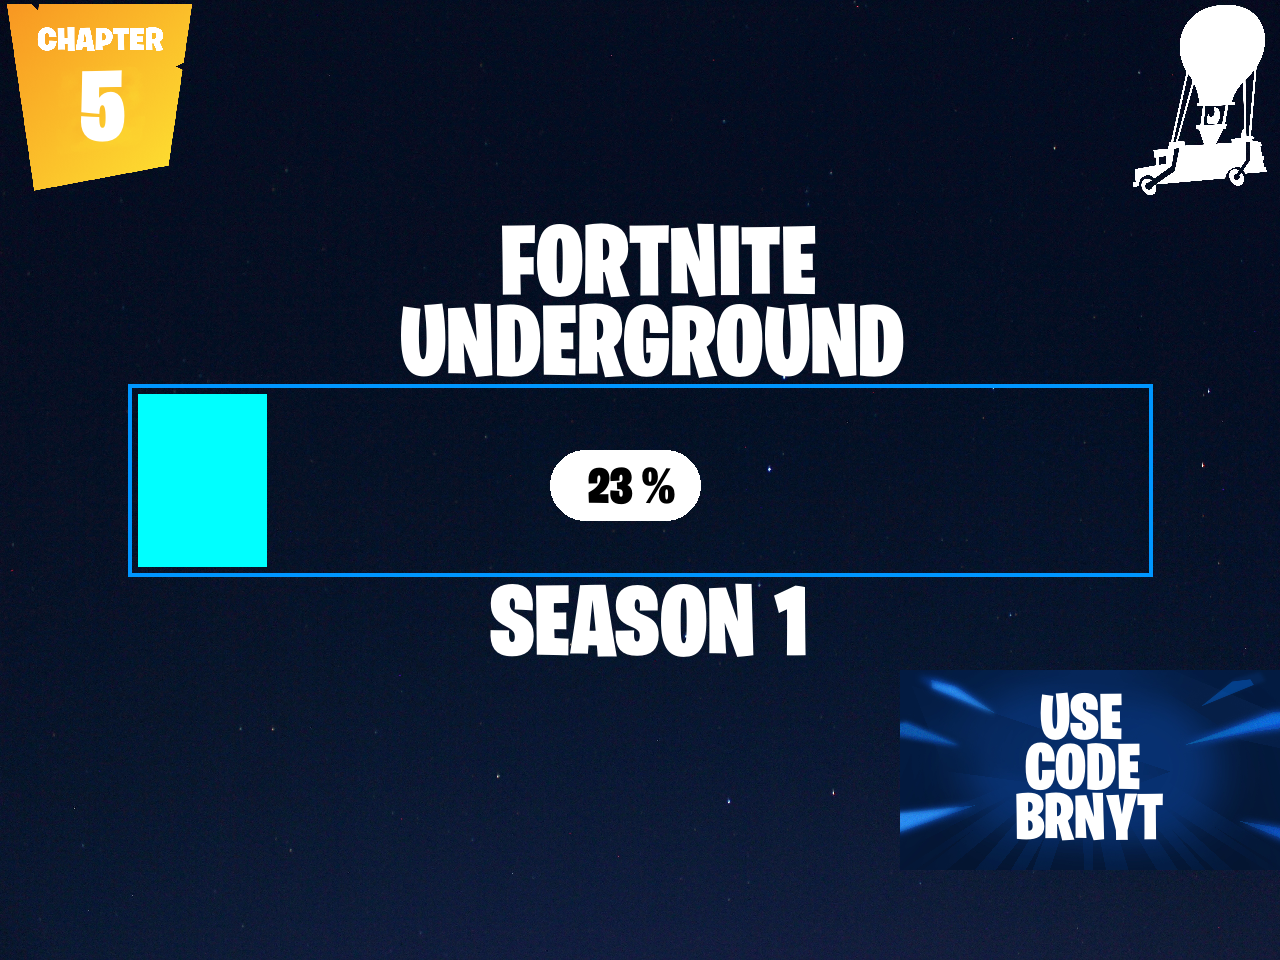
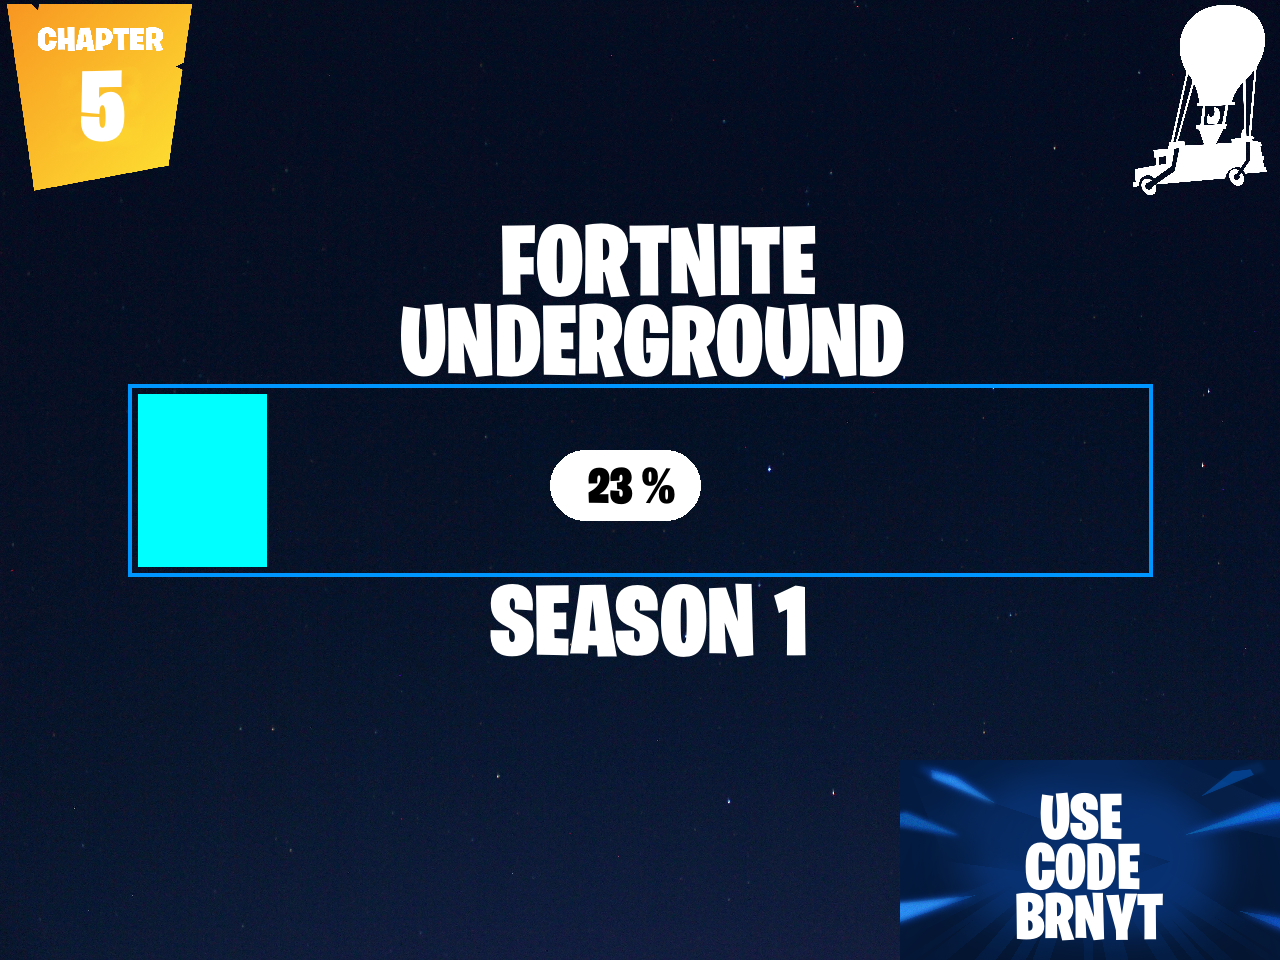
Fixed the fial image a little

Changed region(s): [[0.6875, 0.6875, 1.0, 1.0]]

diff --git a/Loading_Image/loading_bar_in_depth.py b/Loading_Image/loading_bar_in_depth.py
@@ -94,11 +94,11 @@ def create_loading_bar_image(progress):
     cc_back_path = os.path.join("Loading_Image", "FNCS_BG.JPG")
     cc_back_logo = Image.open(cc_back_path).convert('RGBA')
     cc_back_logo = cc_back_logo.resize((400, 200), Image.NEAREST)
-    resized_image.paste(cc_back_logo, [900, 670], cc_back_logo)
+    resized_image.paste(cc_back_logo, [900, 760], cc_back_logo)
 
-    support_code_pos = [1040, 690]
-    support_code_pos2 = [1025, 740]
-    support_code_pos3 = [1015, 790]
+    support_code_pos = [1040, 790]
+    support_code_pos2 = [1025, 840]
+    support_code_pos3 = [1015, 890]
     support_font_size = 65
     support_code_font = ImageFont.truetype(font_path, support_font_size)
     draw.text(support_code_pos, f"USE", font=support_code_font)
